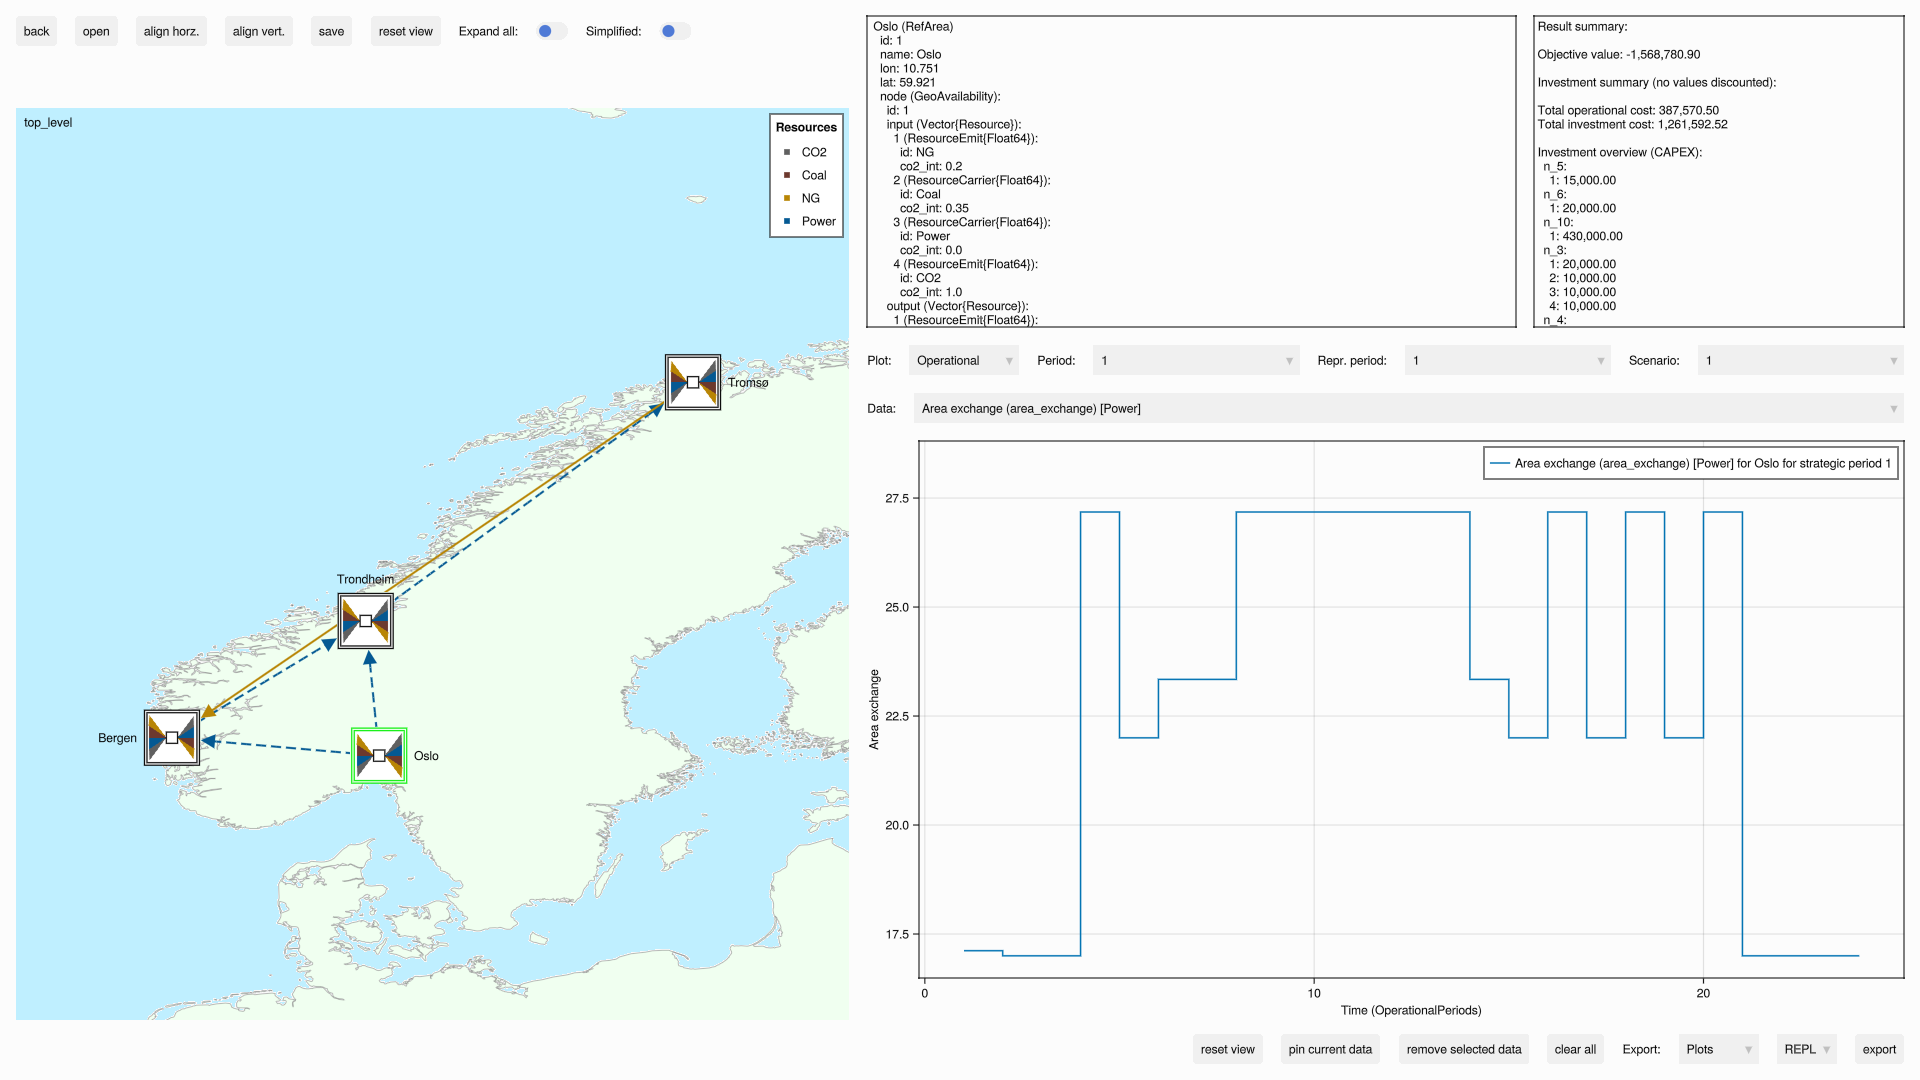
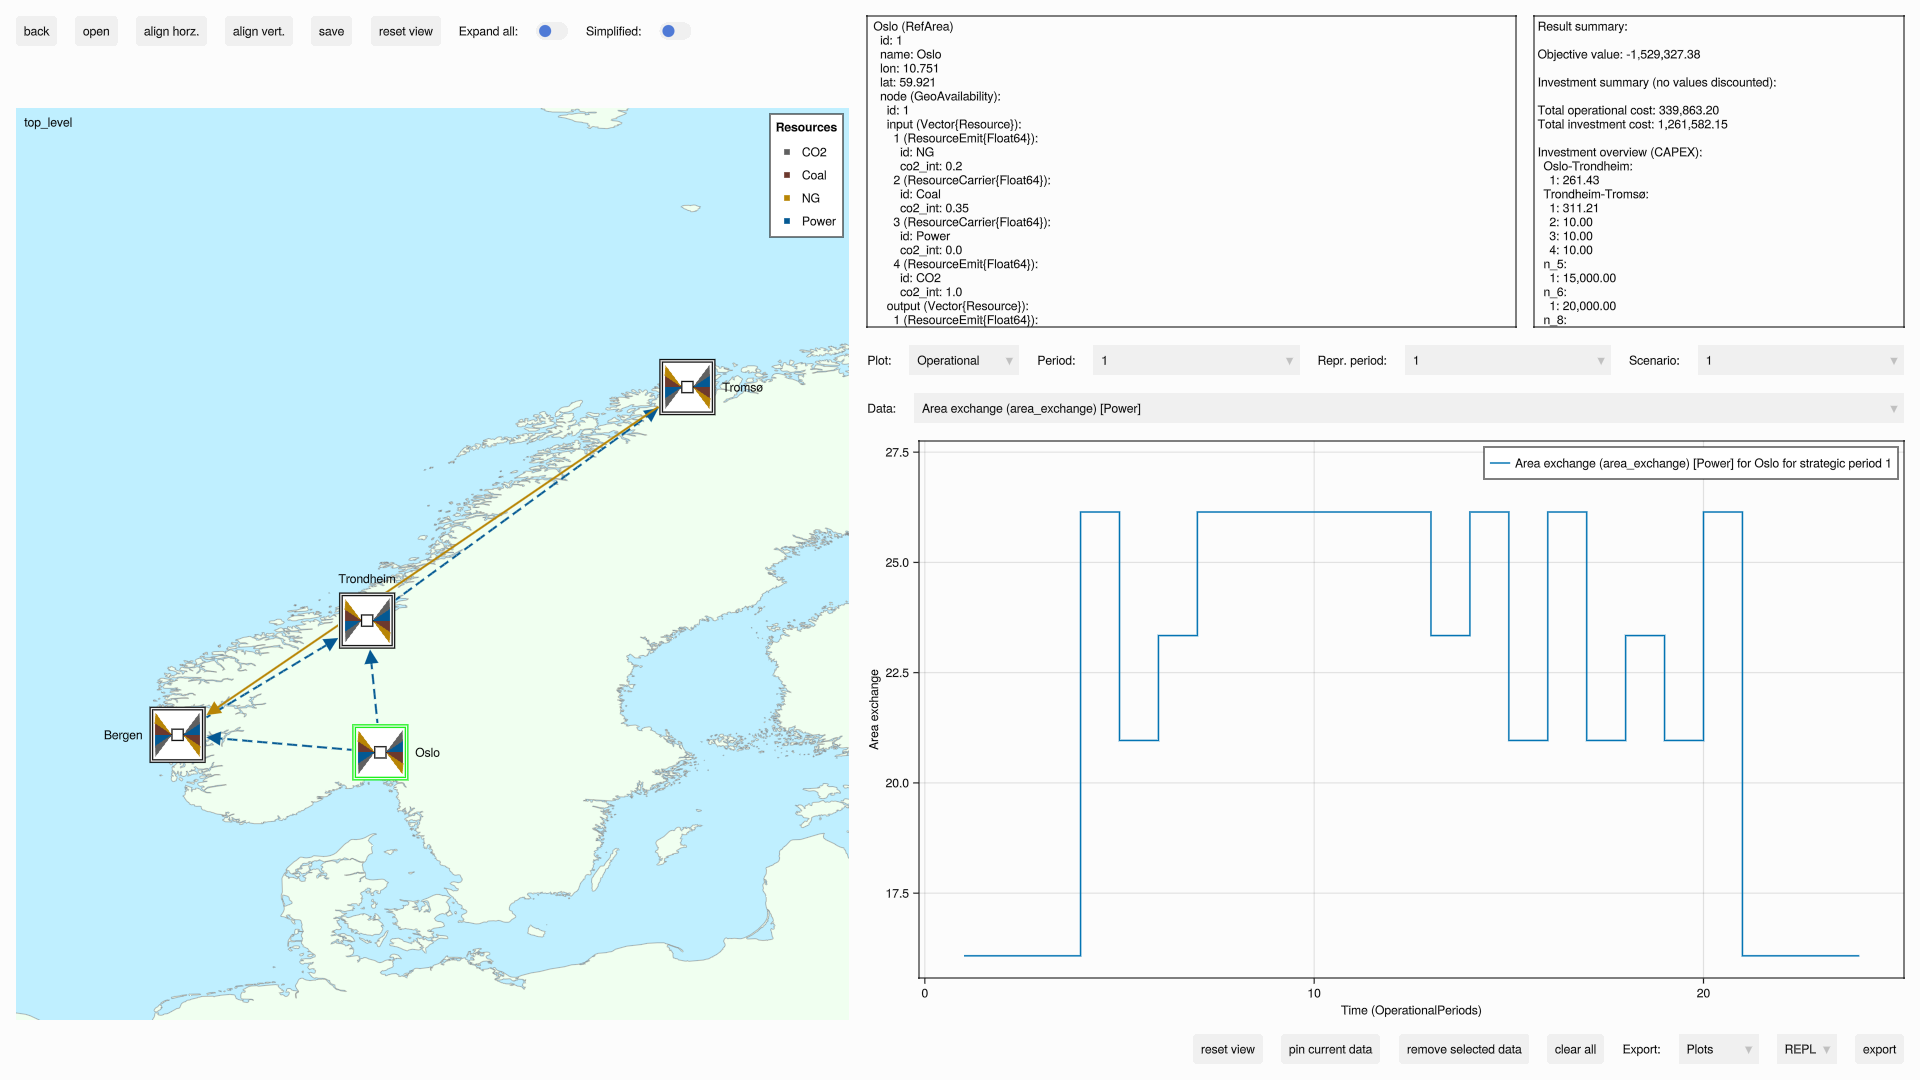
Fix miscellaneous bugs and enhance colors (#49)
* Add colors for resources
* Fix arbitrary radius calculation bug
* Fix issue when topology is not defined properly
* Fix missing investments in transmission modes in the investment overview
* Fix formatting, update NEWS.md and figures.

diff --git a/NEWS.md b/NEWS.md
@@ -1,5 +1,17 @@
 # Release notes
 
+## Version 0.7.1 (2026-04-24)
+
+### Bugfix
+
+* Fix bug that resulted in arbitrary evaluated lat-lon coordinates for children of `Area`s due to the arbitrary default radius of 1.0 if not provided by the design `.yml` input files. The bug is resolved by first computing minimal distance between areas and letting the new radius be a third of this distance.
+* Fix issue when the transmissions/links is not properly defined (e.g., `from` or `to` objects not sharing resource).
+* Fix missing investments in transmission modes in the Investment overview.
+
+### Enhancements
+
+* Add more colors for resources aliases.
+
 ## Version 0.7.0 (2026-04-17)
 
 ### Breaking changes
